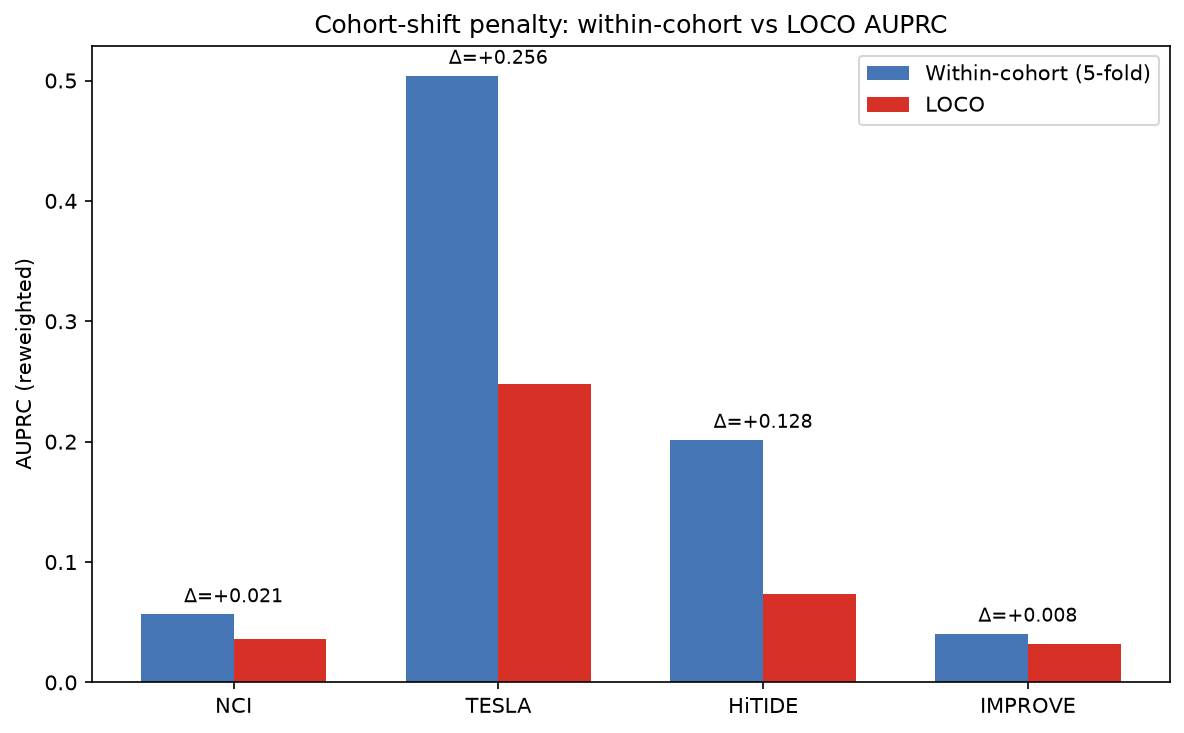
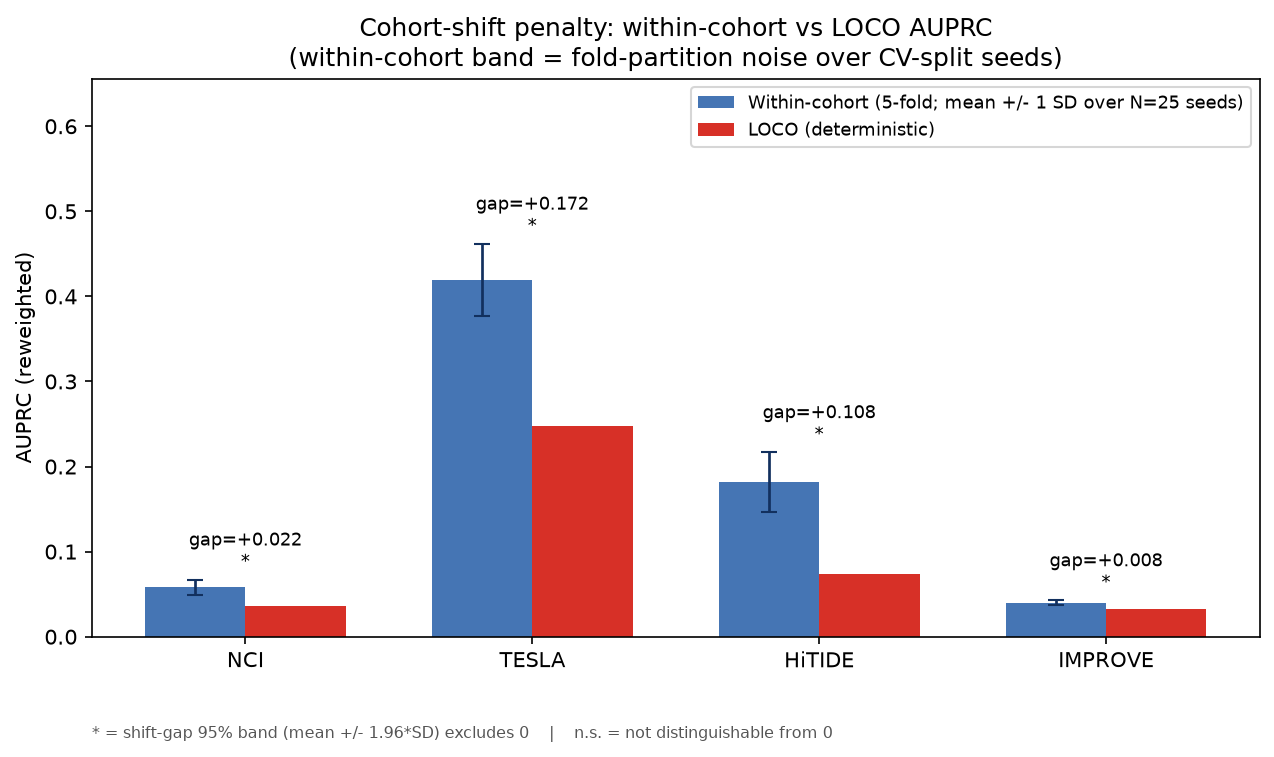
feat(research): report the within-cohort shift gap as a distribution over CV-split seeds
Closes #954. The within-cohort 5-fold AUPRC in notebook.ipynb (cell 19) was a point estimate
on one random fold partition (StratifiedKFold random_state=42); the shift_gap (within - LOCO)
inherited that single-partition variance, which is material given small per-cohort positive
counts. Replace it with a distribution over N=25 CV-split seeds:

- cell 19: per-cohort within AUPRC as mean + SD + a 2.5-97.5 percentile band, plus a
  'distinguishable from zero' verdict per cohort (95% gap CI = mean +/- 1.96*SD). Only the
  CV-split seed is swept; the upstream subsample seed (score_cohort.py seed=42) stays fixed.
- cell 30 (shift_gap.png): within-cohort bars carry a +/-1 SD variance band; each gap tagged
  * (band excludes 0) or n.s. Y-headroom added so annotations clear the title.
- cell 31 + cell 40 + README: stability statement. Every cohort's gap is statistically
  distinguishable from zero, but only TESLA (+0.17) and HiTIDE (+0.11) are practically large;
  NCI (+0.02) and IMPROVE (+0.01) clear the noise only because their per-seed variance is tiny.

Rides on the #1059 refresh (both re-execute the same notebook); diff is isolated to the
variance band + its downstream figures (shift_gap.png banded, conclusion_ladder.png seed-mean).

diff --git a/research/experiments/issue_547_immunogenicity_calibration/README.md b/research/experiments/issue_547_immunogenicity_calibration/README.md
@@ -130,7 +130,7 @@ calibrator (#708) consumes assayed-positive vs assayed-negative, so map NeoRanki
 - `models/calibrator_v1.joblib` — **deliverable artifact** (Issue #708; relocated to the repo-root `models/` production home in Issue #908): `PresentationCalibrator` fit with adaptive KDE mode, prior log-odds −6.525 (derived from `true_counts.csv` pooled across all 4 cohorts), trained on NCI + TESLA + HiTIDE + IMPROVE. Consumed by [Issue #709](https://github.com/Jin-HoMLee/splice-neoepitope-pipeline/issues/709) (Snakemake wiring, via `config.yaml` `calibrator.artifact`). Load: `PresentationCalibrator.load("models/calibrator_v1.joblib")` (path relative to repo root).
 - `outputs/scored_cohort_subsample.parquet.true_counts.csv` — per-cohort true positive and true negative counts used to compute the base-rate prior (committed; the `.parquet` itself is gitignored as LICR-derived).
 - `outputs/pr_reliability.png` — per-cohort **logit-scale calibration plot**: predicted log-odds (x) vs empirical logit of the observed rate (y, +0.5-corrected on the Kish-effective-n scale), with Jeffreys (boundary-corrected) CIs (visually near-identical to the former Wilson interval except in the lowest-rate NCI bins, where Wilson under-covers as p->0; #804), the 45° perfect-calibration diagonal, and the fitted **Cox recalibration** line. Headline numbers are the **Cox slope** (≈1 = well-calibrated spread; <1 = over-confident) and **intercept** (calibration-in-the-large / base-rate offset). Calibration is a held-out *diagnostic* on the SNV cohorts, not a deployment probability claim (#592); discrimination lives in the AUPRC-lift/AUPRG + top-k tables. The empirical curve is not expected to be monotone (sampling noise, not miscalibration); the monotonicity guarantee is structural (isotonic step, grid-checked at final fit).
-- `outputs/shift_gap.png` — LOCO vs within-cohort validation gap: visualises the cross-lab/assay transfer drop (the "proxy caveat" gap).
+- `outputs/shift_gap.png` — LOCO vs within-cohort validation gap: visualises the cross-lab/assay transfer drop (the "proxy caveat" gap). The within-cohort bars carry a variance band (mean +/- 1 SD over 25 CV-split seeds, [Issue #954](https://github.com/Jin-HoMLee/splice-neoepitope-pipeline/issues/954)) so the gap is read against fold-partition noise, not a single draw. **Stability:** every cohort's shift gap is statistically distinguishable from zero (95% band excludes 0), but only TESLA (+0.17) and HiTIDE (+0.11) are practically large; NCI (+0.02) and IMPROVE (+0.01) clear the noise only because their per-seed variance is tiny, so their transfer penalty is real but negligible in magnitude.
 - `outputs/kde_compare.png` — adaptive vs fixed-bandwidth KDE, logit-scale reliability for NCI + IMPROVE; confirms the two modes are indistinguishable on the large cohorts.
 - `outputs/kde_fit_compare.png` — the **same pooled data fitted both ways**: (left) class-conditional densities under fixed (Scott) vs adaptive (Abramson) KDE; (right) the resulting calibration maps. Shows what "adaptive" changes (wider kernels in the data-sparse tail, smoother map) and why the ranking/AUPRC barely moves (both maps monotone, track closely).
 - `outputs/method_fitted.png` — the **actual fitted pipeline** on our four pooled SNV cohorts (not a schematic): (1) class-conditional adaptive-KDE densities, (2) log density-ratio → base-rate prior shift, (3) isotonic → centered isotonic, (4) the fitted lookup curve `transform()` applies at inference. Replaces the earlier synthetic NeoGuider schematics; regenerated by the notebook's "Method, on our data" cell.